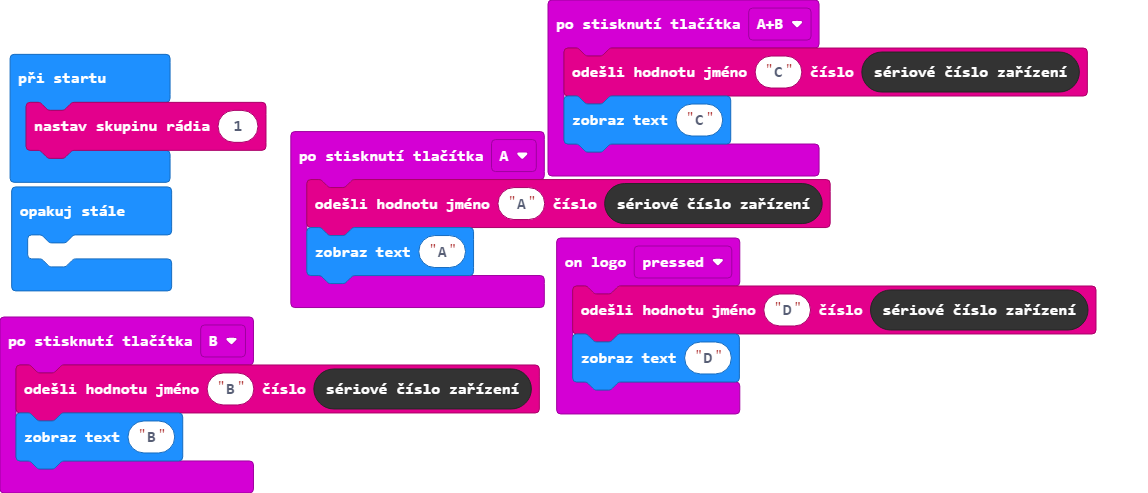
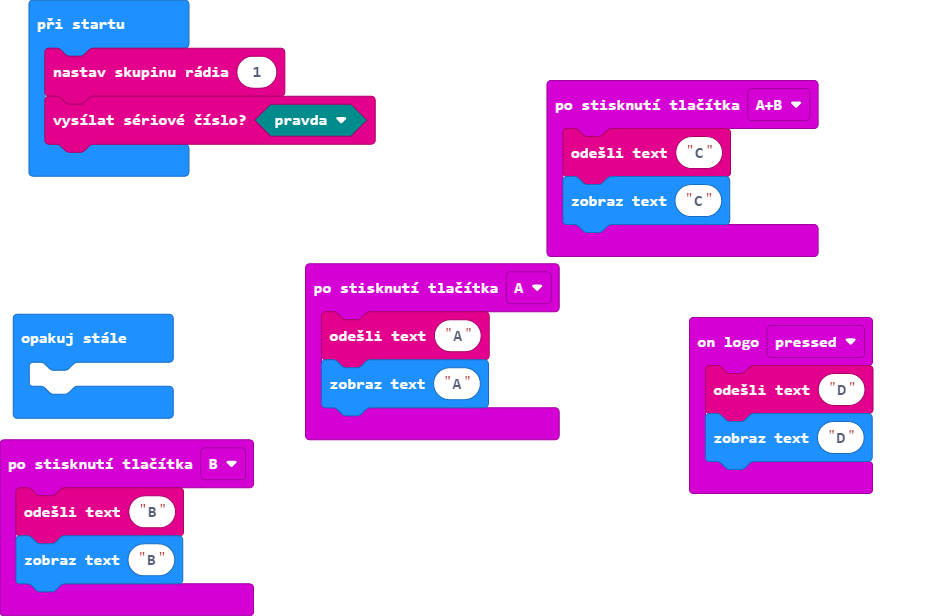
Aktualizovat pxt.json, main.blocks, main.ts

diff --git a/main.ts b/main.ts
@@ -1,20 +1,21 @@
 input.onButtonPressed(Button.A, function () {
-    radio.sendValue("A", control.deviceSerialNumber())
+    radio.sendString("A")
     basic.showString("A")
 })
 input.onButtonPressed(Button.AB, function () {
-    radio.sendValue("C", control.deviceSerialNumber())
+    radio.sendString("C")
     basic.showString("C")
 })
 input.onButtonPressed(Button.B, function () {
-    radio.sendValue("B", control.deviceSerialNumber())
+    radio.sendString("B")
     basic.showString("B")
 })
 input.onLogoEvent(TouchButtonEvent.Pressed, function () {
-    radio.sendValue("D", control.deviceSerialNumber())
+    radio.sendString("D")
     basic.showString("D")
 })
 radio.setGroup(1)
+radio.setTransmitSerialNumber(true)
 basic.forever(function () {
 	
 })
